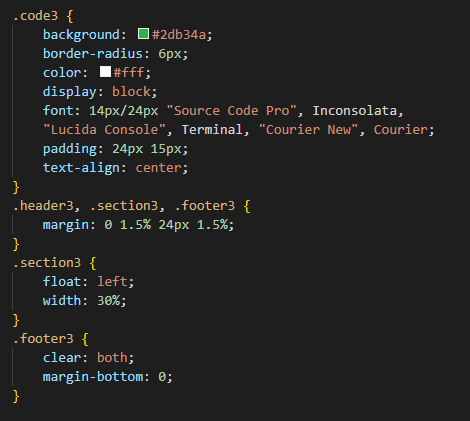
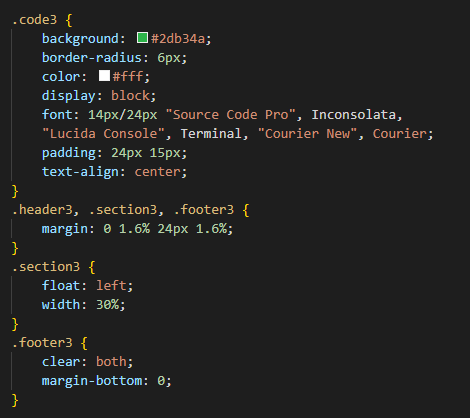
Демонстрация элементов inline-block с пробелом

diff --git a/03_Middle/CSS-middle/position-in-bl.html b/03_Middle/CSS-middle/position-in-bl.html
@@ -162,6 +162,51 @@
                 </section>
                 <section>
                     <h2><em>inline-block</em> на практике</h2>
+                    <p>
+                        Давайте взглянем на наш трёхколоночный пример с самого начала. Начнём мы, сохраняя наш HTML таким:
+                    </p>
+                    <p>
+                        <img src="./img/positioning-img/Screenshot_57.png" alt="">
+                    </p>
+                    <p>
+                        Теперь вместо <span class="atr">float</span> для наших трёх элементов <span class="tag">&lt;section&gt;</span> мы изменим у них значение <span class="atr">display</span> на <span class="mean">inline-block</span>, оставляя свойства <span class="atr">margin</span> и <span class="atr">width</span> те, что были ранее. В результате наш CSS будет выглядеть следующим образом:
+                    </p>
+                    <p>
+                        <img src="./img/positioning-img/Screenshot_58.png" alt="">
+                    </p>
+                    <p>
+                        К сожалению, одного этого кода недостаточно чтобы сделать трюк и последний элемент <span class="tag">&lt;section&gt;</span> выталкивается на новую строку. Помните, поскольку строчно-блочные элементы отображаются на одной линии друг за другом, они включают единое пространство между ними. 
+                    </p>
+                    <p>
+                        Когда размер каждого отдельного пространства добавляется к ширине и значению горизонтального <span class="atr">margin</span> всех элементов в строке, общая ширина становится слишком большой, выталкивая последний элемент <span class="tag">&lt;section&gt;</span> на новую строку. 
+                    </p>
+                    <p>
+                        Чтобы отобразить все элементы <span class="tag">&lt;section&gt;</span> на одной строке, следует удалить пустое пространство между каждым <span class="tag">&lt;section&gt;</span>.
+                    </p>
+                    <div class="example">
+                        <h6>Демонстрация элементов <em>inline-block</em> с пробелом</h6>
+                        <p>
+                            <img src="./img/positioning-img/Screenshot_60.png" alt="">
+                            <img src="./img/positioning-img/Screenshot_61.png" alt="">
+                        </p>
+                        <div class="block">
+                            <header class="header31">
+                               <code class="code31">&#60;header&#62;</code>
+                            </header>
+                            <section class="section31">
+                               <code class="code31">&#60;section&#62; <br> display: <br> inline-block;</code>
+                            </section>
+                            <section class="section31">
+                               <code class="code31">&#60;section&#62; <br> display: <br> inline-block;</code>
+                            </section>
+                            <section class="section31">
+                               <code class="code31">&#60;section&#62; <br> display: <br> inline-block;</code>
+                            </section>
+                            <footer class="footer31">
+                               <code class="code31">&#60;footer&#62;</code>
+                            </footer>
+                        </div>
+                    </div>
                 </section>
             </section>
             <a href="#header" class="btn">ВВЕРХ</a>

diff --git a/03_Middle/CSS-middle/css/position-in-bl.css b/03_Middle/CSS-middle/css/position-in-bl.css
@@ -9,9 +9,9 @@ h1, h2, h3, h4, h5, h6 {
     font-weight: bold;
     margin: .3em;
 }
-span {
+/* span {
     font-weight: inherit;
-}
+} */
 h1 {
     font-size: 250%;
 }
@@ -216,7 +216,7 @@ nav a {
     text-align: center;
 }
 .header3, .section3, .footer3 {
-    margin: 0 1.5% 24px 1.5%;
+    margin: 0 1.6% 24px 1.6%;
 }
 .section3 {
     float: left;
@@ -224,5 +224,26 @@ nav a {
 }
 .footer3 {
     clear: both;
+    margin-bottom: 0;
+}
+
+.code31 {
+    background: #2db34a;
+    border-radius: 6px;
+    color: #fff;
+    display: block;
+    font: 14px/24px "Source Code Pro", Inconsolata, 
+    "Lucida Console", Terminal, "Courier New", Courier;
+    padding: 24px 15px;
+    text-align: center;
+}
+.header31, .section31, .footer31 {
+    margin: 0 1.6% 24px 1.6%;
+}
+.section31 {
+    display: inline-block;
+    width: 30%;
+}
+.footer31 {
     margin-bottom: 0;
 }
